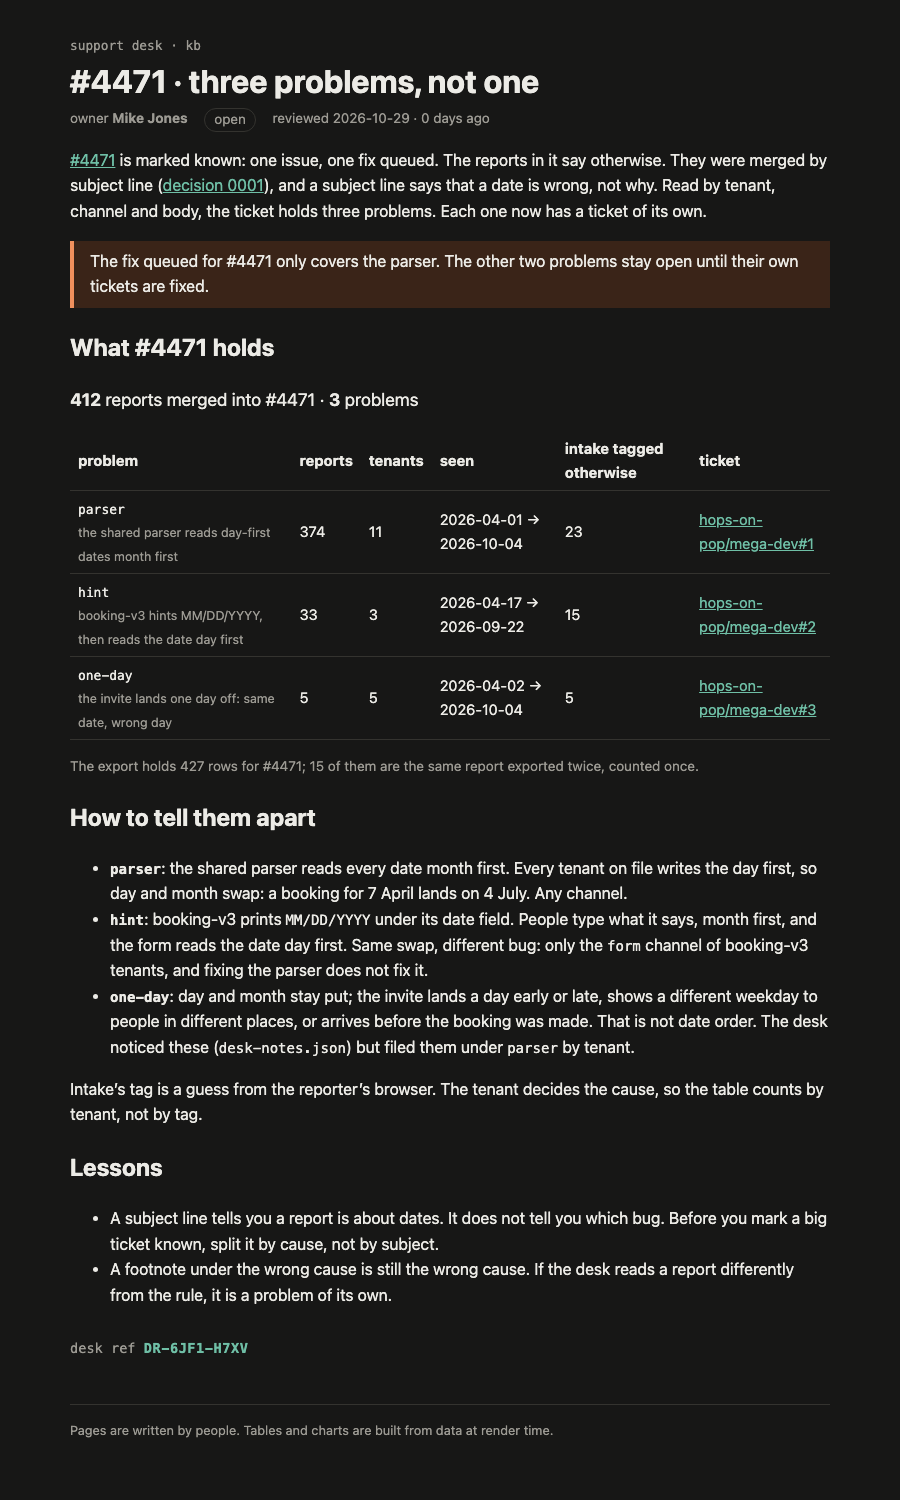
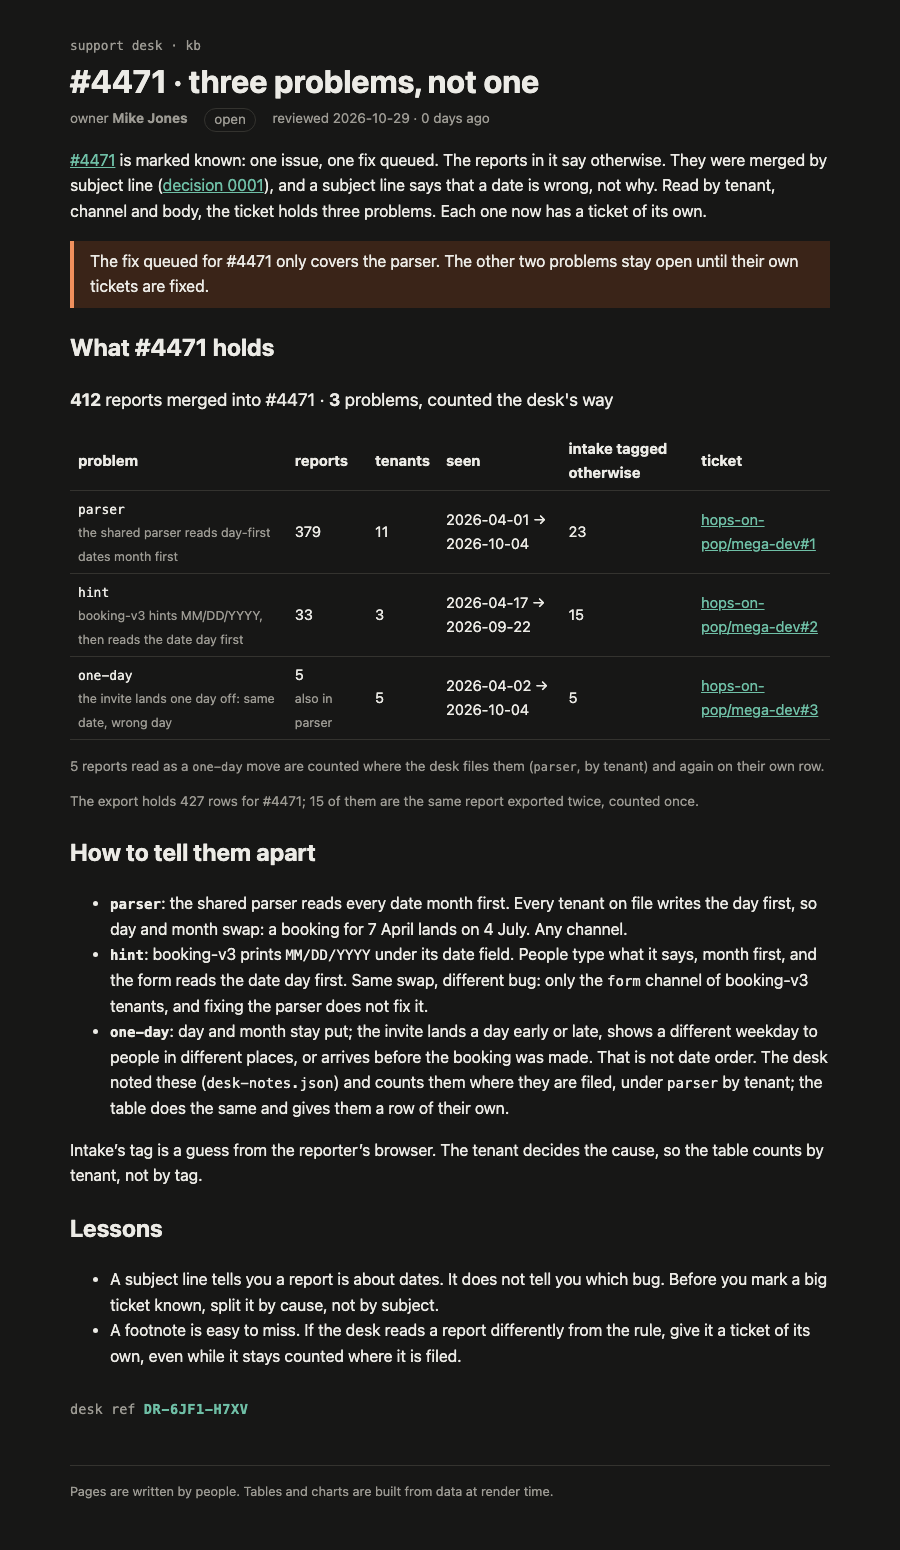
challenge 3 fixes

Changed region(s): [[0.0622, 0.0307, 0.9333, 0.92], [0.0622, 0.9507, 0.6222, 0.9813]]

diff --git a/challenges/s01e03/support-kb/src/routes/kb/incidents/4471-split/rendered.html b/challenges/s01e03/support-kb/src/routes/kb/incidents/4471-split/rendered.html
@@ -35,15 +35,16 @@ aside.svelte-17bri61{border-left:4px solid var(--accent);background:var(--note-b
     <div style="display: contents"><!--[--><!--[--><!--[0--><!--[--><!--[--><!--[-1--><!--[--><div class="kb svelte-e2jw2j"><header><a class="crumb svelte-e2jw2j" href="/kb">support desk · kb</a> <h1 class="svelte-e2jw2j">#4471 · three problems, not one</h1> <p class="meta svelte-e2jw2j"><span>owner <b>Mike Jones</b></span> <span class="status open svelte-e2jw2j">open</span> <span class="svelte-e2jw2j">reviewed 2026-10-29 · 0 days ago</span></p></header> <!--[-1--><!--]--> <main><p><a href="/kb/incidents/4471">#4471</a> is marked known: one issue, one fix queued. The reports in it say
 otherwise. They were merged by subject line (<a href="/kb/decisions/0001-dedupe-by-subject">decision 0001</a>),
 and a subject line says that a date is wrong, not why. Read by tenant, channel and body, the
-ticket holds three problems. Each one now has a ticket of its own.</p> <aside class="warn svelte-17bri61"><!---->The fix queued for #4471 only covers the parser. The other two problems stay open until their own tickets are fixed.<!----></aside><!----> <h2>What #4471 holds</h2> <p class="sum svelte-1op6c6"><strong>412</strong> reports merged into #4471 · <strong>3</strong> problems</p> <table><thead><tr><th>problem</th><th>reports</th><th>tenants</th><th>seen</th><th>intake tagged otherwise</th><th>ticket</th></tr></thead><tbody><!--[--><tr><td><code>parser</code><br/><span class="what svelte-1op6c6">the shared parser reads day-first dates month first</span></td><td>374</td><td>11</td><td>2026-04-01 → 2026-10-04</td><td>23</td><td><!--[0--><a href="https://github.com/hops-on-pop/mega-dev/issues/1">hops-on-pop/mega-dev#1</a><!--]--></td></tr><tr><td><code>hint</code><br/><span class="what svelte-1op6c6">booking-v3 hints MM/DD/YYYY, then reads the date day first</span></td><td>33</td><td>3</td><td>2026-04-17 → 2026-09-22</td><td>15</td><td><!--[0--><a href="https://github.com/hops-on-pop/mega-dev/issues/2">hops-on-pop/mega-dev#2</a><!--]--></td></tr><tr><td><code>one-day</code><br/><span class="what svelte-1op6c6">the invite lands one day off: same date, wrong day</span></td><td>5</td><td>5</td><td>2026-04-02 → 2026-10-04</td><td>5</td><td><!--[0--><a href="https://github.com/hops-on-pop/mega-dev/issues/3">hops-on-pop/mega-dev#3</a><!--]--></td></tr><!--]--></tbody></table> <p class="note svelte-1op6c6">The export holds 427 rows for #4471; 15 of them are the same report
+ticket holds three problems. Each one now has a ticket of its own.</p> <aside class="warn svelte-17bri61"><!---->The fix queued for #4471 only covers the parser. The other two problems stay open until their own tickets are fixed.<!----></aside><!----> <h2>What #4471 holds</h2> <p class="sum svelte-1op6c6"><strong>412</strong> reports merged into #4471 · <strong>3</strong> problems, counted the desk's way</p> <table><thead><tr><th>problem</th><th>reports</th><th>tenants</th><th>seen</th><th>intake tagged otherwise</th><th>ticket</th></tr></thead><tbody><!--[--><tr><td><code>parser</code><br/><span class="what svelte-1op6c6">the shared parser reads day-first dates month first</span></td><td>379<!--[-1--><!--]--></td><td>11</td><td>2026-04-01 → 2026-10-04</td><td>23</td><td><!--[0--><a href="https://github.com/hops-on-pop/mega-dev/issues/1">hops-on-pop/mega-dev#1</a><!--]--></td></tr><tr><td><code>hint</code><br/><span class="what svelte-1op6c6">booking-v3 hints MM/DD/YYYY, then reads the date day first</span></td><td>33<!--[-1--><!--]--></td><td>3</td><td>2026-04-17 → 2026-09-22</td><td>15</td><td><!--[0--><a href="https://github.com/hops-on-pop/mega-dev/issues/2">hops-on-pop/mega-dev#2</a><!--]--></td></tr><tr><td><code>one-day</code><br/><span class="what svelte-1op6c6">the invite lands one day off: same date, wrong day</span></td><td>5<!--[0--><br/><span class="what svelte-1op6c6">also in parser</span><!--]--></td><td>5</td><td>2026-04-02 → 2026-10-04</td><td>5</td><td><!--[0--><a href="https://github.com/hops-on-pop/mega-dev/issues/3">hops-on-pop/mega-dev#3</a><!--]--></td></tr><!--]--></tbody></table> <!--[--><p class="note svelte-1op6c6">5 reports read as a <code>one-day</code> move are counted where the desk files them
+    (<code>parser</code>, by tenant) and again on their own row.</p><!--]--> <p class="note svelte-1op6c6">The export holds 427 rows for #4471; 15 of them are the same report
   exported twice, counted once.</p><!----> <h2>How to tell them apart</h2> <ul><li><strong><code>parser</code></strong>: the shared parser reads every date month first. Every tenant on file writes the
 day first, so day and month swap: a booking for 7 April lands on 4 July. Any channel.</li> <li><strong><code>hint</code></strong>: booking-v3 prints <code>MM/DD/YYYY</code> under its date field. People type what it says,
 month first, and the form reads the date day first. Same swap, different bug: only the <code>form</code> channel of booking-v3 tenants, and fixing the parser does not fix it.</li> <li><strong><code>one-day</code></strong>: day and month stay put; the invite lands a day early or late, shows a different
 weekday to people in different places, or arrives before the booking was made. That is not
-date order. The desk noticed these (<code>desk-notes.json</code>) but filed them under <code>parser</code> by tenant.</li></ul> <p>Intake’s tag is a guess from the reporter’s browser. The tenant decides the cause, so the table
+date order. The desk noted these (<code>desk-notes.json</code>) and counts them where they are filed, under <code>parser</code> by tenant; the table does the same and gives them a row of their own.</li></ul> <p>Intake’s tag is a guess from the reporter’s browser. The tenant decides the cause, so the table
 counts by tenant, not by tag.</p> <h2>Lessons</h2> <ul><li>A subject line tells you a report is about dates. It does not tell you which bug. Before you
-mark a big ticket known, split it by cause, not by subject.</li> <li>A footnote under the wrong cause is still the wrong cause. If the desk reads a report
-differently from the rule, it is a problem of its own.</li></ul> <!--[0--><p class="stamp svelte-1280m42">desk ref <b class="svelte-1280m42">DR-6JF1-H7XV</b></p><!--]--><!----><!----></main> <footer class="svelte-e2jw2j">Pages are written by people. Tables and charts are built from data at render time.</footer></div><!--]--><!--]--><!--]--><!----><!--]--><!--]--><!--]--><!----> <!--[-1--><!--]--><!--]-->
+mark a big ticket known, split it by cause, not by subject.</li> <li>A footnote is easy to miss. If the desk reads a report differently from the rule, give it a
+ticket of its own, even while it stays counted where it is filed.</li></ul> <!--[0--><p class="stamp svelte-1280m42">desk ref <b class="svelte-1280m42">DR-6JF1-H7XV</b></p><!--]--><!----><!----></main> <footer class="svelte-e2jw2j">Pages are written by people. Tables and charts are built from data at render time.</footer></div><!--]--><!--]--><!--]--><!----><!--]--><!--]--><!--]--><!----> <!--[-1--><!--]--><!--]-->
 			
 			
 		</div>

diff --git a/challenges/s01e03/support-kb/src/lib/kb/problems.ts b/challenges/s01e03/support-kb/src/lib/kb/problems.ts
@@ -1,6 +1,7 @@
-// What a merged ticket holds, problem by problem. causes.ts decides parser vs hint by tenant and
-// channel; a report the desk read as a one-day move (desk-notes.json) is neither: its date keeps
-// day and month, only the day shifts. So it is a problem of its own here, not a footnote.
+// What a merged ticket holds, problem by problem, counted the desk's way. causes.ts files each
+// report under parser or hint by tenant and channel. A report the desk read as a one-day move
+// (desk-notes.json) is a problem of its own: its date keeps day and month, only the day shifts.
+// The desk still counts it where it is filed, so it is counted there and again on its own row.
 import notes from '#lib/data/desk-notes.json';
 import { causeOf, uniqueById, type Report, type Tenant } from '#lib/kb/causes';
 
@@ -13,11 +14,6 @@ export const PROBLEM_TEXT: Record<Problem, string> = {
   unplaced: 'no tenant on file',
 };
 
-export function problemOf(r: Report, t: Tenant | undefined): Problem {
-  if (notes.oneDayMove.includes(r.id)) return 'one-day';
-  return causeOf(r, t) ?? 'unplaced';
-}
-
 export type ProblemGroup = {
   problem: Problem;
   reports: number;
@@ -26,28 +22,34 @@ export type ProblemGroup = {
   lastSeen: string;
   // Reports intake tagged with something other than this problem.
   mistagged: number;
+  // For one-day: the problem the desk files these reports under, by tenant.
+  filedUnder: Problem[];
 };
+
+function group(problem: Problem, rs: Report[], filedUnder: Problem[] = []): ProblemGroup {
+  const days = rs.map((r) => r.receivedAt.slice(0, 10)).sort();
+  return {
+    problem,
+    reports: rs.length,
+    tenants: new Set(rs.map((r) => r.tenant)).size,
+    firstSeen: days[0],
+    lastSeen: days[days.length - 1],
+    mistagged: rs.filter((r) => r.meta.intakeTag !== problem).length,
+    filedUnder,
+  };
+}
 
 export function splitTicket(all: Report[], ticket: number, tenantOf: (r: Report) => Tenant | undefined) {
   const exported = all.filter((r) => r.mergedInto === ticket).length;
   const merged = uniqueById(all).filter((r) => r.mergedInto === ticket);
+  const filed = (r: Report): Problem => causeOf(r, tenantOf(r)) ?? 'unplaced';
+
   const by = new Map<Problem, Report[]>();
-  for (const r of merged) {
-    const p = problemOf(r, tenantOf(r));
-    by.set(p, [...(by.get(p) ?? []), r]);
-  }
-  const groups: ProblemGroup[] = [...by.entries()]
-    .map(([problem, rs]) => {
-      const days = rs.map((r) => r.receivedAt.slice(0, 10)).sort();
-      return {
-        problem,
-        reports: rs.length,
-        tenants: new Set(rs.map((r) => r.tenant)).size,
-        firstSeen: days[0],
-        lastSeen: days[days.length - 1],
-        mistagged: rs.filter((r) => r.meta.intakeTag !== problem).length,
-      };
-    })
-    .sort((a, b) => b.reports - a.reports);
+  for (const r of merged) by.set(filed(r), [...(by.get(filed(r)) ?? []), r]);
+  const groups = [...by.entries()].map(([p, rs]) => group(p, rs)).sort((a, b) => b.reports - a.reports);
+
+  const moved = merged.filter((r) => notes.oneDayMove.includes(r.id));
+  if (moved.length) groups.push(group('one-day', moved, [...new Set(moved.map(filed))]));
+
   return { exported, unique: merged.length, groups };
 }

diff --git a/challenges/s01e03/support-kb/src/lib/kb/ProblemTable.svelte b/challenges/s01e03/support-kb/src/lib/kb/ProblemTable.svelte
@@ -13,7 +13,7 @@
 <p class="sum">
   <strong>{split.unique}</strong> reports merged into #{ticket} ·
   <strong>{split.groups.length}</strong>
-  {split.groups.length === 1 ? 'problem' : 'problems'}
+  {split.groups.length === 1 ? 'problem' : 'problems'}, counted the desk's way
 </p>
 
 <table>
@@ -24,7 +24,7 @@
     {#each split.groups as g (g.problem)}
       <tr>
         <td><code>{g.problem}</code><br /><span class="what">{PROBLEM_TEXT[g.problem]}</span></td>
-        <td>{g.reports}</td>
+        <td>{g.reports}{#if g.filedUnder.length}<br /><span class="what">also in {g.filedUnder.join(', ')}</span>{/if}</td>
         <td>{g.tenants}</td>
         <td>{g.firstSeen} → {g.lastSeen}</td>
         <td>{g.mistagged}</td>
@@ -39,6 +39,13 @@
     {/each}
   </tbody>
 </table>
+
+{#each split.groups.filter((g) => g.filedUnder.length) as g (g.problem)}
+  <p class="note">
+    {g.reports} reports read as a <code>{g.problem}</code> move are counted where the desk files them
+    (<code>{g.filedUnder.join(', ')}</code>, by tenant) and again on their own row.
+  </p>
+{/each}
 
 <p class="note">
   The export holds {split.exported} rows for #{ticket}; {split.exported - split.unique} of them are the same report

diff --git a/challenges/s01e03/HANDOFF.md b/challenges/s01e03/HANDOFF.md
@@ -45,3 +45,8 @@ Exact page text: see log.md (first entry). Every request/reply is logged there.
 - KbIndex lists the new page. Root .gitignore now hides s01e03 log/media/bodies/out/zip.
 - NEXT: human commits + pushes → claim-challenge (answer shape unknown; no receipts held — call and follow the reply) → debrief.
 - Watch: "the desk keeps working" — re-download export + check issues for comments before claiming.
+
+## Claim 1 — rejected
+- desk: "Right problems. The desk counts with its own view, as it was exported." → problems right, counts wrong.
+- Desk's own view = CauseTable as exported: parser 379 (incl. the 5 one-day, "counted where they're filed, footnoted under it" per causes.ts readAs), hint 33, one-day 5 footnoted. Our #1 said 374.
+- Plan: #1 → 379 (title+body), #3 body notes the 5 are also counted in #1; page ProblemTable counts the desk's way; re-push; re-claim.
